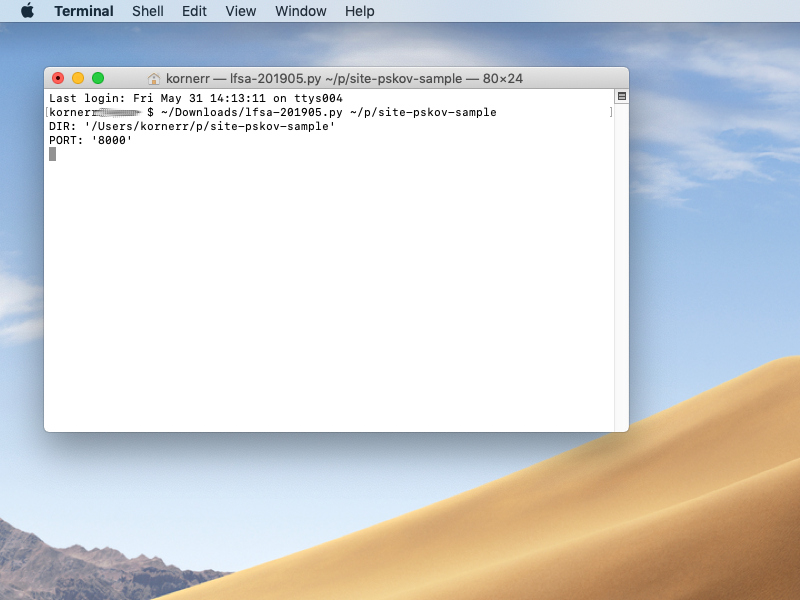
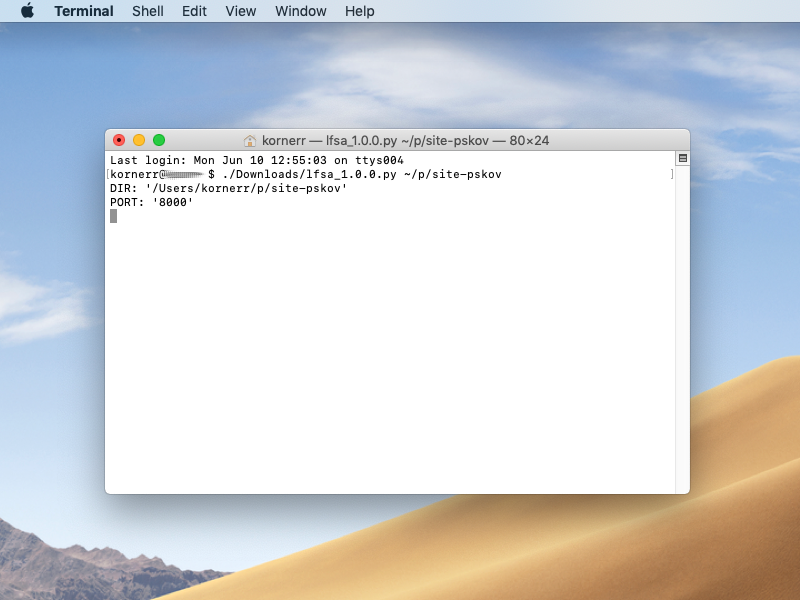
Use lfsa_1.0.0.py instead of lfsa_201905.py. Update docs and screenshots to reflect the change

diff --git a/ru/index.html b/ru/index.html
@@ -91,41 +91,42 @@
         <center><h1>
         </h1></center>
         <center><div class="contents">
-<h2 id="">Обзор</h2>
-<p>К Локальной Файловой Системе Доступ (ЛФСД, LFSA) является:</p>
+<p>К <strong>Л</strong>окальной <strong>Ф</strong>айловой <strong>С</strong>истеме <strong>Д</strong>оступ (<strong>ЛФСД</strong>):</p>
 <ul>
-<li>крошечным веб-сервером для доступа клиентских приложений JS к локальной файловой системе</li>
-<li>кирпичиком фундамента Сетевых Приложений на Стороне Клиента (СПСК, CSWA)</li>
-<li>файлом Python</li>
+<li>является крошечным веб-сервером для доступа клиентских приложений JS к локальной файловой системе</li>
+<li>является кирпичиком фундамента <strong>С</strong>етевых <strong>П</strong>риложений на <strong>С</strong>тороне <strong>К</strong>лиента (<strong>СПСК</strong>)</li>
+<li>умещается в одном файле Python</li>
+<li>выпущен под лицензией <a href="https://creativecommons.org/share-your-work/public-domain/cc0/">CC0</a> (общественное достояние)</li>
 </ul>
-<h2 id="-1">СПСК</h2>
+<h2 id="">СПСК</h2>
 <p>Сетевые Приложения на Стороне Клиента выполняются исключительно на вашем устройстве, они никак не связаны с облачными решениями: никто не сможет их отключить.
-СПСК используют ЛФСД для хранения данных на вашем жёстком диске, поэтому вы полностью владеете своими данными.</p>
+СПСК могут использовать ЛФСД для хранения данных локально, чтобы вы полность их контролировали.</p>
 <p><a href="http://opengamestudio.org/pskov">ПСКОВ</a> (генератор статических сайтов) является первым СПСК, использующим ЛФСД.</p>
-<h2 id="-2">Установка</h2>
-<p>Если вы используете Linux или macOS, выпущенные после 2005-го (да, 2005-го), вам необходимо просто <a href="../lfsa-201905.py">загрузить lfsa-201905.py</a>.</p>
+<h2 id="-1">Установка</h2>
+<p>Если вы используете Linux или macOS, выпущенные после 2005-го (да, 2005-го), вам необходимо просто <a href="../lfsa_1.0.0.py">загрузить lfsa_1.0.0.py</a>.</p>
 <p>Если вы используете Windows 2000 или новее (за исключением Windows ME), вам необходимо:</p>
 <ul>
 <li><a href="https://www.python.org/downloads/windows/">загрузить</a> и установить Python 2.3 либо новее</li>
-<li><a href="../lfsa-201905.py">загрузить lfsa-201905.py</a></li>
+<li><a href="../lfsa_1.0.0.py">загрузить lfsa_1.0.0.py</a></li>
 </ul>
-<h2 id="-3">Запуск</h2>
-<p>Если вы используете Linux или macOS, запускайте ЛФСД в Терминале следующим образом:</p>
-<pre><code>/путь/до/lfsa-201905.py /путь/до/директории
+<h2 id="-2">Запуск</h2>
+<p>Если вы используете Linux или macOS, запускайте ЛФСД в терминале следующим образом:</p>
+<pre><code>/путь/до/lfsa_1.0.0.py /путь/до/директории
 </code></pre>
 <p>Вот как это выглядит на macOS Mojave:</p>
 <p><img src="../img/lfsa-on-macos.png" alt="ЛФСД на macOS Mojave" /></p>
 <p>Если вы используете Windows, запускайте ЛФСД в <a href="https://ru.wikipedia.org/wiki/Cmd.exe">CMD</a> следующим образом:</p>
-<pre><code>C:/путь/до/установки/Python/python.exe C:/путь/до/lfsa-201905.py C:/путь/до/директории
+<pre><code>C:/путь/до/установки/Python/python.exe C:/путь/до/lfsa_1.0.0.py C:/путь/до/директории
 </code></pre>
 <p>Вот как это выглядит на Windows 2000:</p>
 <p><img src="../img/lfsa-on-windows.png" alt="ЛФСД на Windows 2000" /></p>
-<h2 id="-4">Долговечность</h2>
+<h2 id="-3">Долговечность</h2>
 <p>Как вы заметили, ЛФСД может работать на действительно старых операционных системах, родом из 2000-х. Это осознанный выбор: мы заботимся о пользователях, поэтому хотим предоставить наш инструмент как можно большему числу пользователей.</p>
         </div></center>
         <div id="footer">
-            Этот сайт сгенерирован <a href="http://opengamestudio.org/pskov">ПСКОВОМ</a>.
-            Исходный код <a href="http://github.com/ogstudio/site-lfsa">здесь</a>.
+            Сайт сгенерирован <a href="http://opengamestudio.org/pskov">ПСКОВОМ</a>
+            из <a href="http://github.com/ogstudio/site-lfsa">этого исходного кода</a>.
+            Сайт расположен на <a href="https://pages.github.com">GitHub Pages</a>.
         </div>
         <script type="text/javascript">
         </script>

diff --git a/en/index.html b/en/index.html
@@ -91,32 +91,32 @@
         <center><h1>
         </h1></center>
         <center><div class="contents">
-<h2 id="overview">Overview</h2>
-<p>Local File System Access (LFSA) is:</p>
+<p><strong>L</strong>ocal <strong>F</strong>ile <strong>S</strong>ystem <strong>A</strong>ccess (<strong>LFSA</strong>) is:</p>
 <ul>
 <li>a tiny web server to allow client side JS access to local file system</li>
-<li>a buildling block for Client Side Web Apps (CSWA)</li>
+<li>a buildling block for <strong>C</strong>lient <strong>S</strong>ide <strong>W</strong>eb <strong>A</strong>pps (<strong>CSWA</strong>)</li>
 <li>a single Python file</li>
+<li>released under <a href="https://creativecommons.org/share-your-work/public-domain/cc0/">CC0</a> license (public domain)</li>
 </ul>
 <h2 id="cswa">CSWA</h2>
 <p>Client Side Web Apps run solely on your device, they are not related to cloud solutions in any way: nobody can pull the plug on you.
-CSWAs use LFSA to keep data at your hard drive, so you have complete control of your data.</p>
+CSWAs may use LFSA to keep data locally so that you could have complete control of your data.</p>
 <p><a href="http://opengamestudio.org/pskov">PSKOV</a> static site generator is the first CSWA to use LFSA.</p>
 <h2 id="install">Install</h2>
-<p>If you use Linux or macOS released after 2005 (yes, 2005), you only need to <a href="../lfsa-201905.py">download lfsa-201905.py</a>.</p>
+<p>If you use Linux or macOS released after 2005 (yes, 2005), you only need to <a href="../lfsa_1.0.0.py">download lfsa_1.0.0.py</a>.</p>
 <p>If you use Windows 2000 or newer (excluding Windows ME), you need to:</p>
 <ul>
 <li><a href="https://www.python.org/downloads/windows/">download</a> and install Python 2.3 or newer</li>
-<li><a href="../lfsa-201905.py">download lfsa-201905.py</a></li>
+<li><a href="../lfsa_1.0.0.py">download lfsa_1.0.0.py</a></li>
 </ul>
 <h2 id="run">Run</h2>
-<p>If you use Linux or macOS, run LFSA in Terminal this way:</p>
-<pre><code>/path/to/lfsa-201905.py /path/to/dir
+<p>If you use Linux or macOS, run LFSA in terminal this way:</p>
+<pre><code>/path/to/lfsa_1.0.0.py /path/to/dir
 </code></pre>
 <p>Here's how it looks like on macOS Mojave:</p>
 <p><img src="../img/lfsa-on-macos.png" alt="LFSA on macOS Mojave" /></p>
 <p>If you use Windows, run LFSA in <a href="https://en.wikipedia.org/wiki/Cmd.exe">CMD</a> this way:</p>
-<pre><code>C:/path/to/Python/installation/python.exe C:/path/to/lfsa-201905.py C:/path/to/dir
+<pre><code>C:/path/to/Python/installation/python.exe C:/path/to/lfsa_1.0.0.py C:/path/to/dir
 </code></pre>
 <p>Here's how it looks like on Windows 2000:</p>
 <p><img src="../img/lfsa-on-windows.png" alt="LFSA on Windows 2000" /></p>
@@ -124,8 +124,9 @@ CSWAs use LFSA to keep data at your hard drive, so you have complete control of 
 <p>As you noticed, LFSA can run on really old operating systems dating back to 2000. That's intentional: we care about users, so we want to cover as many users as possible.</p>
         </div></center>
         <div id="footer">
-            This site has been generated by <a href="http://opengamestudio.org/pskov">PSKOV</a>.
-            Source code is <a href="http://github.com/ogstudio/site-lfsa">here</a>.
+            The site has been generated by <a href="http://opengamestudio.org/pskov">PSKOV</a>
+            from <a href="http://github.com/ogstudio/site-lfsa">this source code</a>.
+            The site is hosted by <a href="https://pages.github.com">GitHub Pages</a>.
         </div>
         <script type="text/javascript">
         </script>

diff --git a/templates/01.Install/v/site-lfsa.UI.Footer-ru.html b/templates/01.Install/v/site-lfsa.UI.Footer-ru.html
@@ -1,5 +1,6 @@
 AMLEO Body
 <div id="footer">
-    Этот сайт сгенерирован <a href="http://opengamestudio.org/pskov">ПСКОВОМ</a>.
-    Исходный код <a href="http://github.com/ogstudio/site-lfsa">здесь</a>.
+    Сайт сгенерирован <a href="http://opengamestudio.org/pskov">ПСКОВОМ</a>
+    из <a href="http://github.com/ogstudio/site-lfsa">этого исходного кода</a>.
+    Сайт расположен на <a href="https://pages.github.com">GitHub Pages</a>.
 </div>

diff --git a/templates/01.Install/v/site-lfsa.UI.Footer.html b/templates/01.Install/v/site-lfsa.UI.Footer.html
@@ -6,6 +6,7 @@ AMLEO Style
 
 AMLEO Body
 <div id="footer">
-    This site has been generated by <a href="http://opengamestudio.org/pskov">PSKOV</a>.
-    Source code is <a href="http://github.com/ogstudio/site-lfsa">here</a>.
+    The site has been generated by <a href="http://opengamestudio.org/pskov">PSKOV</a>
+    from <a href="http://github.com/ogstudio/site-lfsa">this source code</a>.
+    The site is hosted by <a href="https://pages.github.com">GitHub Pages</a>.
 </div>

diff --git a/ru/index.md b/ru/index.md
@@ -4,37 +4,35 @@ Category: Page
 Slug: index
 Lang: ru
 
-## Обзор
+К **Л**окальной **Ф**айловой **С**истеме **Д**оступ (**ЛФСД**):
 
-К Локальной Файловой Системе Доступ (ЛФСД, LFSA) является:
-
-* крошечным веб-сервером для доступа клиентских приложений JS к локальной файловой системе
-* кирпичиком фундамента Сетевых Приложений на Стороне Клиента (СПСК, CSWA)
-* файлом Python
+* является крошечным веб-сервером для доступа клиентских приложений JS к локальной файловой системе
+* является кирпичиком фундамента **С**етевых **П**риложений на **С**тороне **К**лиента (**СПСК**)
+* умещается в одном файле Python
+* выпущен под лицензией [CC0][cc0] (общественное достояние)
 
 ## СПСК 
 
 Сетевые Приложения на Стороне Клиента выполняются исключительно на вашем устройстве, они никак не связаны с облачными решениями: никто не сможет их отключить.
-СПСК используют ЛФСД для хранения данных на вашем жёстком диске, поэтому вы полностью владеете своими данными.
+СПСК могут использовать ЛФСД для хранения данных локально, чтобы вы полность их контролировали.
 
 [ПСКОВ][pskov] (генератор статических сайтов) является первым СПСК, использующим ЛФСД.
 
 ## Установка
 
-Если вы используете Linux или macOS, выпущенные после 2005-го (да, 2005-го), вам необходимо просто [загрузить lfsa-201905.py][lfsa-local].
+Если вы используете Linux или macOS, выпущенные после 2005-го (да, 2005-го), вам необходимо просто [загрузить lfsa_1.0.0.py][lfsa-local].
 
 Если вы используете Windows 2000 или новее (за исключением Windows ME), вам необходимо:
 
 * [загрузить][python] и установить Python 2.3 либо новее
-* [загрузить lfsa-201905.py][lfsa-local]
+* [загрузить lfsa_1.0.0.py][lfsa-local]
 
 ## Запуск
 
-
-Если вы используете Linux или macOS, запускайте ЛФСД в Терминале следующим образом:
+Если вы используете Linux или macOS, запускайте ЛФСД в терминале следующим образом:
 
 ```
-/путь/до/lfsa-201905.py /путь/до/директории
+/путь/до/lfsa_1.0.0.py /путь/до/директории
 ```
 
 Вот как это выглядит на macOS Mojave:
@@ -44,7 +42,7 @@ Lang: ru
 Если вы используете Windows, запускайте ЛФСД в [CMD][cmd] следующим образом:
 
 ```
-C:/путь/до/установки/Python/python.exe C:/путь/до/lfsa-201905.py C:/путь/до/директории
+C:/путь/до/установки/Python/python.exe C:/путь/до/lfsa_1.0.0.py C:/путь/до/директории
 ```
 
 Вот как это выглядит на Windows 2000:
@@ -56,8 +54,9 @@ C:/путь/до/установки/Python/python.exe C:/путь/до/lfsa-2019
 Как вы заметили, ЛФСД может работать на действительно старых операционных системах, родом из 2000-х. Это осознанный выбор: мы заботимся о пользователях, поэтому хотим предоставить наш инструмент как можно большему числу пользователей.
 
 [pskov]: http://opengamestudio.org/pskov
-[lfsa-local]: ../lfsa-201905.py
+[lfsa-local]: ../lfsa_1.0.0.py
 [python]: https://www.python.org/downloads/windows/
 [cmd]: https://ru.wikipedia.org/wiki/Cmd.exe
 [lfsa-on-macos]: ../img/lfsa-on-macos.png
 [lfsa-on-windows]: ../img/lfsa-on-windows.png
+[cc0]: https://creativecommons.org/share-your-work/public-domain/cc0/

diff --git a/en/index.md b/en/index.md
@@ -4,36 +4,35 @@ Category: Page
 Slug: index
 Lang: en
 
-## Overview
-
-Local File System Access (LFSA) is:
+**L**ocal **F**ile **S**ystem **A**ccess (**LFSA**) is:
 
 * a tiny web server to allow client side JS access to local file system
-* a buildling block for Client Side Web Apps (CSWA)
+* a buildling block for **C**lient **S**ide **W**eb **A**pps (**CSWA**)
 * a single Python file
+* released under [CC0][cc0] license (public domain)
 
 ## CSWA
 
 Client Side Web Apps run solely on your device, they are not related to cloud solutions in any way: nobody can pull the plug on you.
-CSWAs use LFSA to keep data at your hard drive, so you have complete control of your data.
+CSWAs may use LFSA to keep data locally so that you could have complete control of your data.
 
 [PSKOV][pskov] static site generator is the first CSWA to use LFSA.
 
 ## Install
 
-If you use Linux or macOS released after 2005 (yes, 2005), you only need to [download lfsa-201905.py][lfsa-local].
+If you use Linux or macOS released after 2005 (yes, 2005), you only need to [download lfsa_1.0.0.py][lfsa-local].
 
 If you use Windows 2000 or newer (excluding Windows ME), you need to:
 
 * [download][python] and install Python 2.3 or newer
-* [download lfsa-201905.py][lfsa-local]
+* [download lfsa_1.0.0.py][lfsa-local]
 
 ## Run
 
-If you use Linux or macOS, run LFSA in Terminal this way:
+If you use Linux or macOS, run LFSA in terminal this way:
 
 ```
-/path/to/lfsa-201905.py /path/to/dir
+/path/to/lfsa_1.0.0.py /path/to/dir
 ```
 
 Here's how it looks like on macOS Mojave:
@@ -43,7 +42,7 @@ Here's how it looks like on macOS Mojave:
 If you use Windows, run LFSA in [CMD][cmd] this way:
 
 ```
-C:/path/to/Python/installation/python.exe C:/path/to/lfsa-201905.py C:/path/to/dir
+C:/path/to/Python/installation/python.exe C:/path/to/lfsa_1.0.0.py C:/path/to/dir
 ```
 
 Here's how it looks like on Windows 2000:
@@ -55,8 +54,9 @@ Here's how it looks like on Windows 2000:
 As you noticed, LFSA can run on really old operating systems dating back to 2000. That's intentional: we care about users, so we want to cover as many users as possible.
 
 [pskov]: http://opengamestudio.org/pskov
-[lfsa-local]: ../lfsa-201905.py
+[lfsa-local]: ../lfsa_1.0.0.py
 [python]: https://www.python.org/downloads/windows/
 [cmd]: https://en.wikipedia.org/wiki/Cmd.exe
 [lfsa-on-macos]: ../img/lfsa-on-macos.png
 [lfsa-on-windows]: ../img/lfsa-on-windows.png
+[cc0]: https://creativecommons.org/share-your-work/public-domain/cc0/
